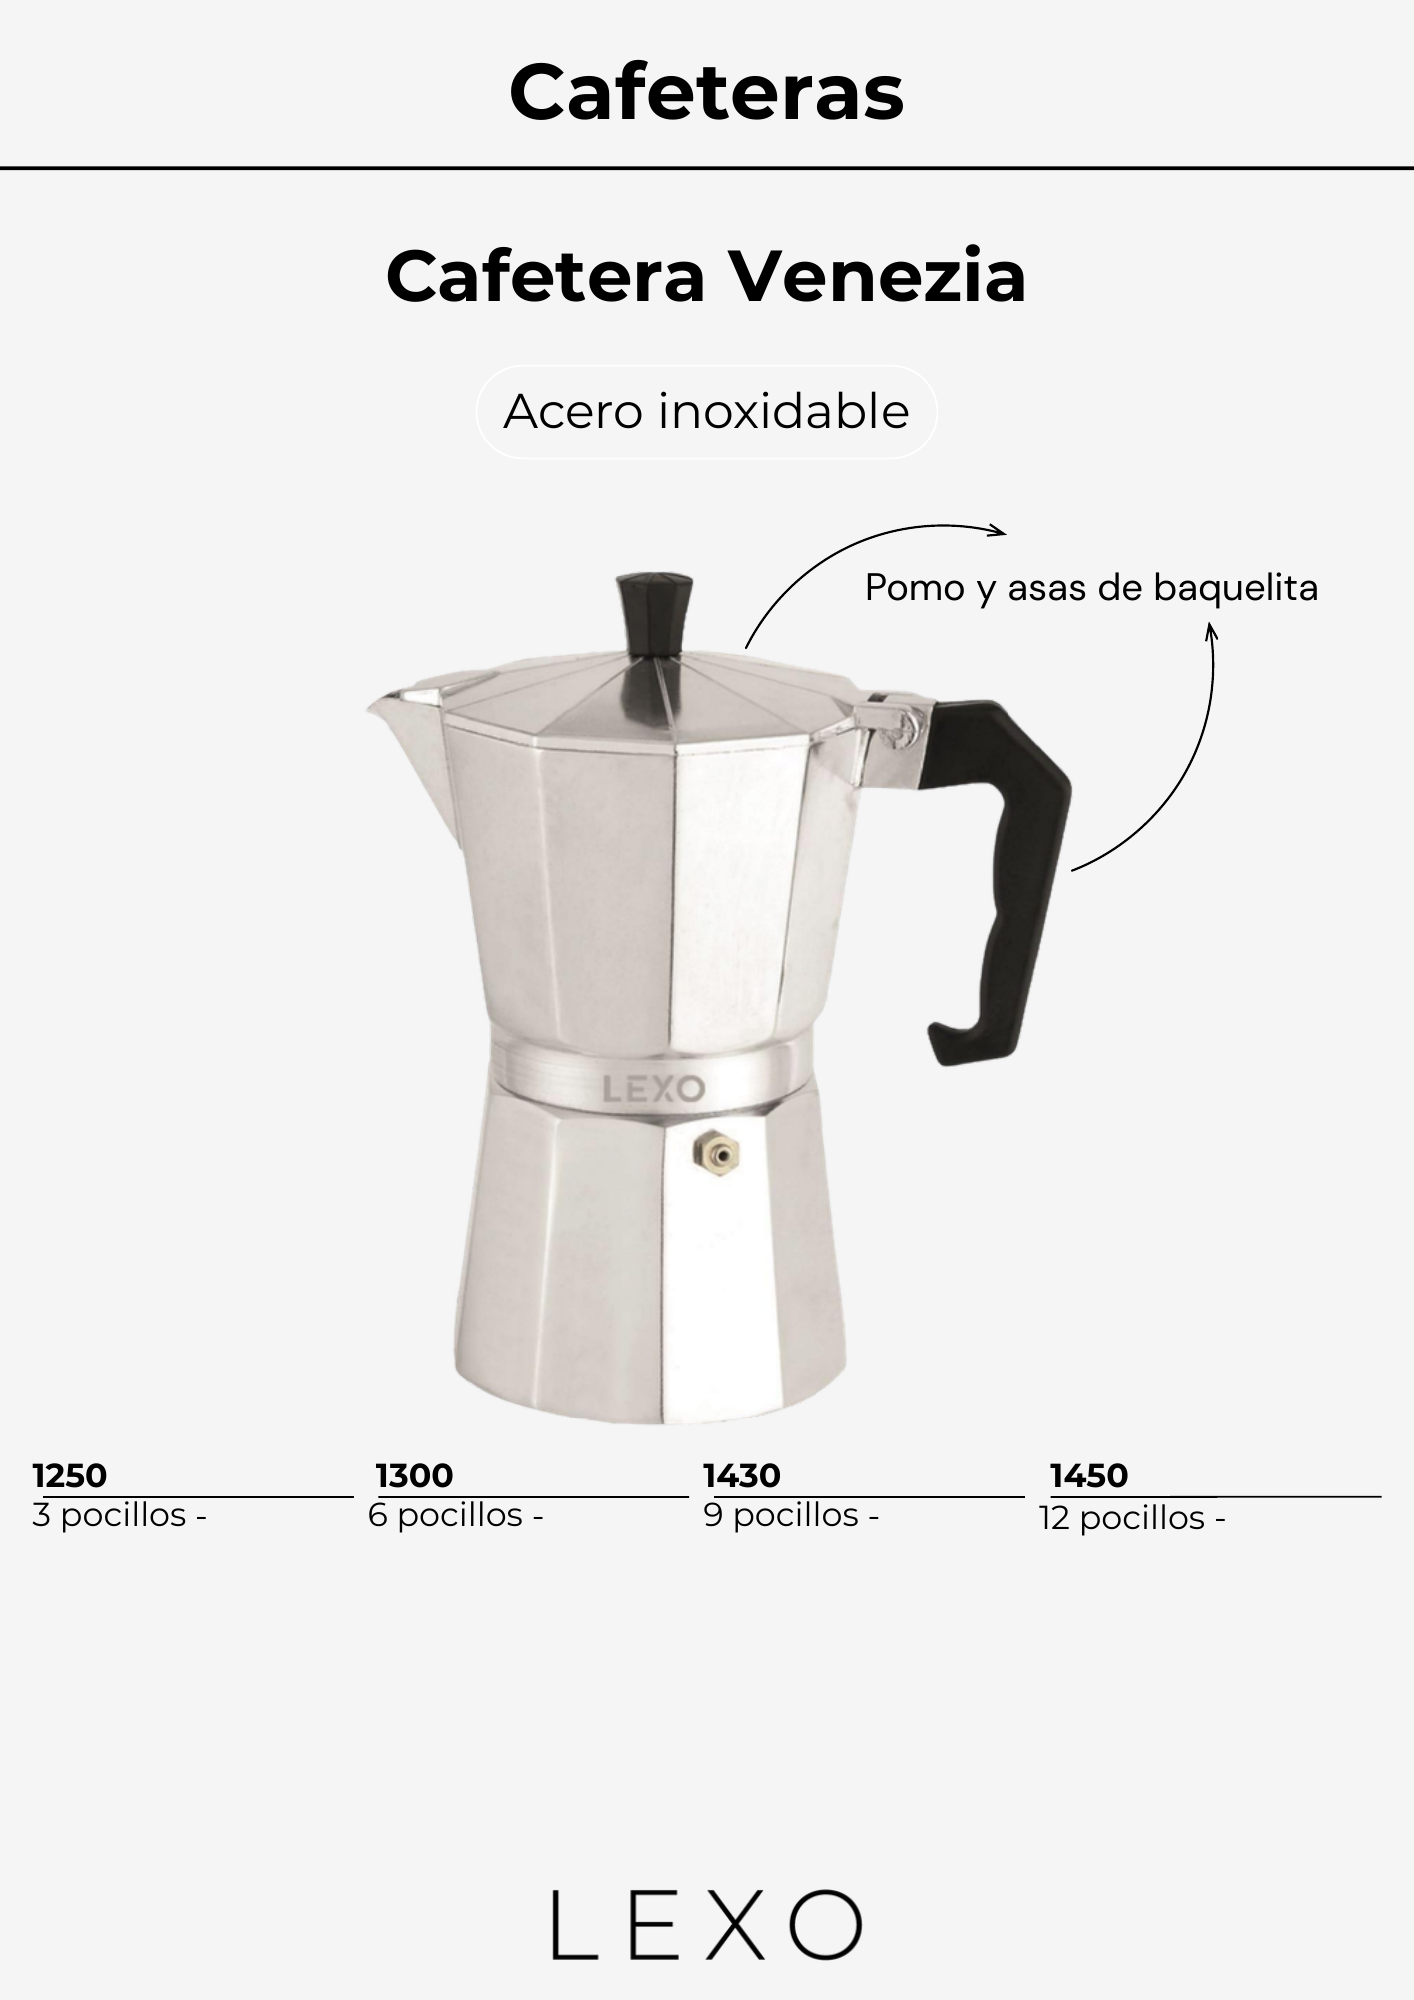
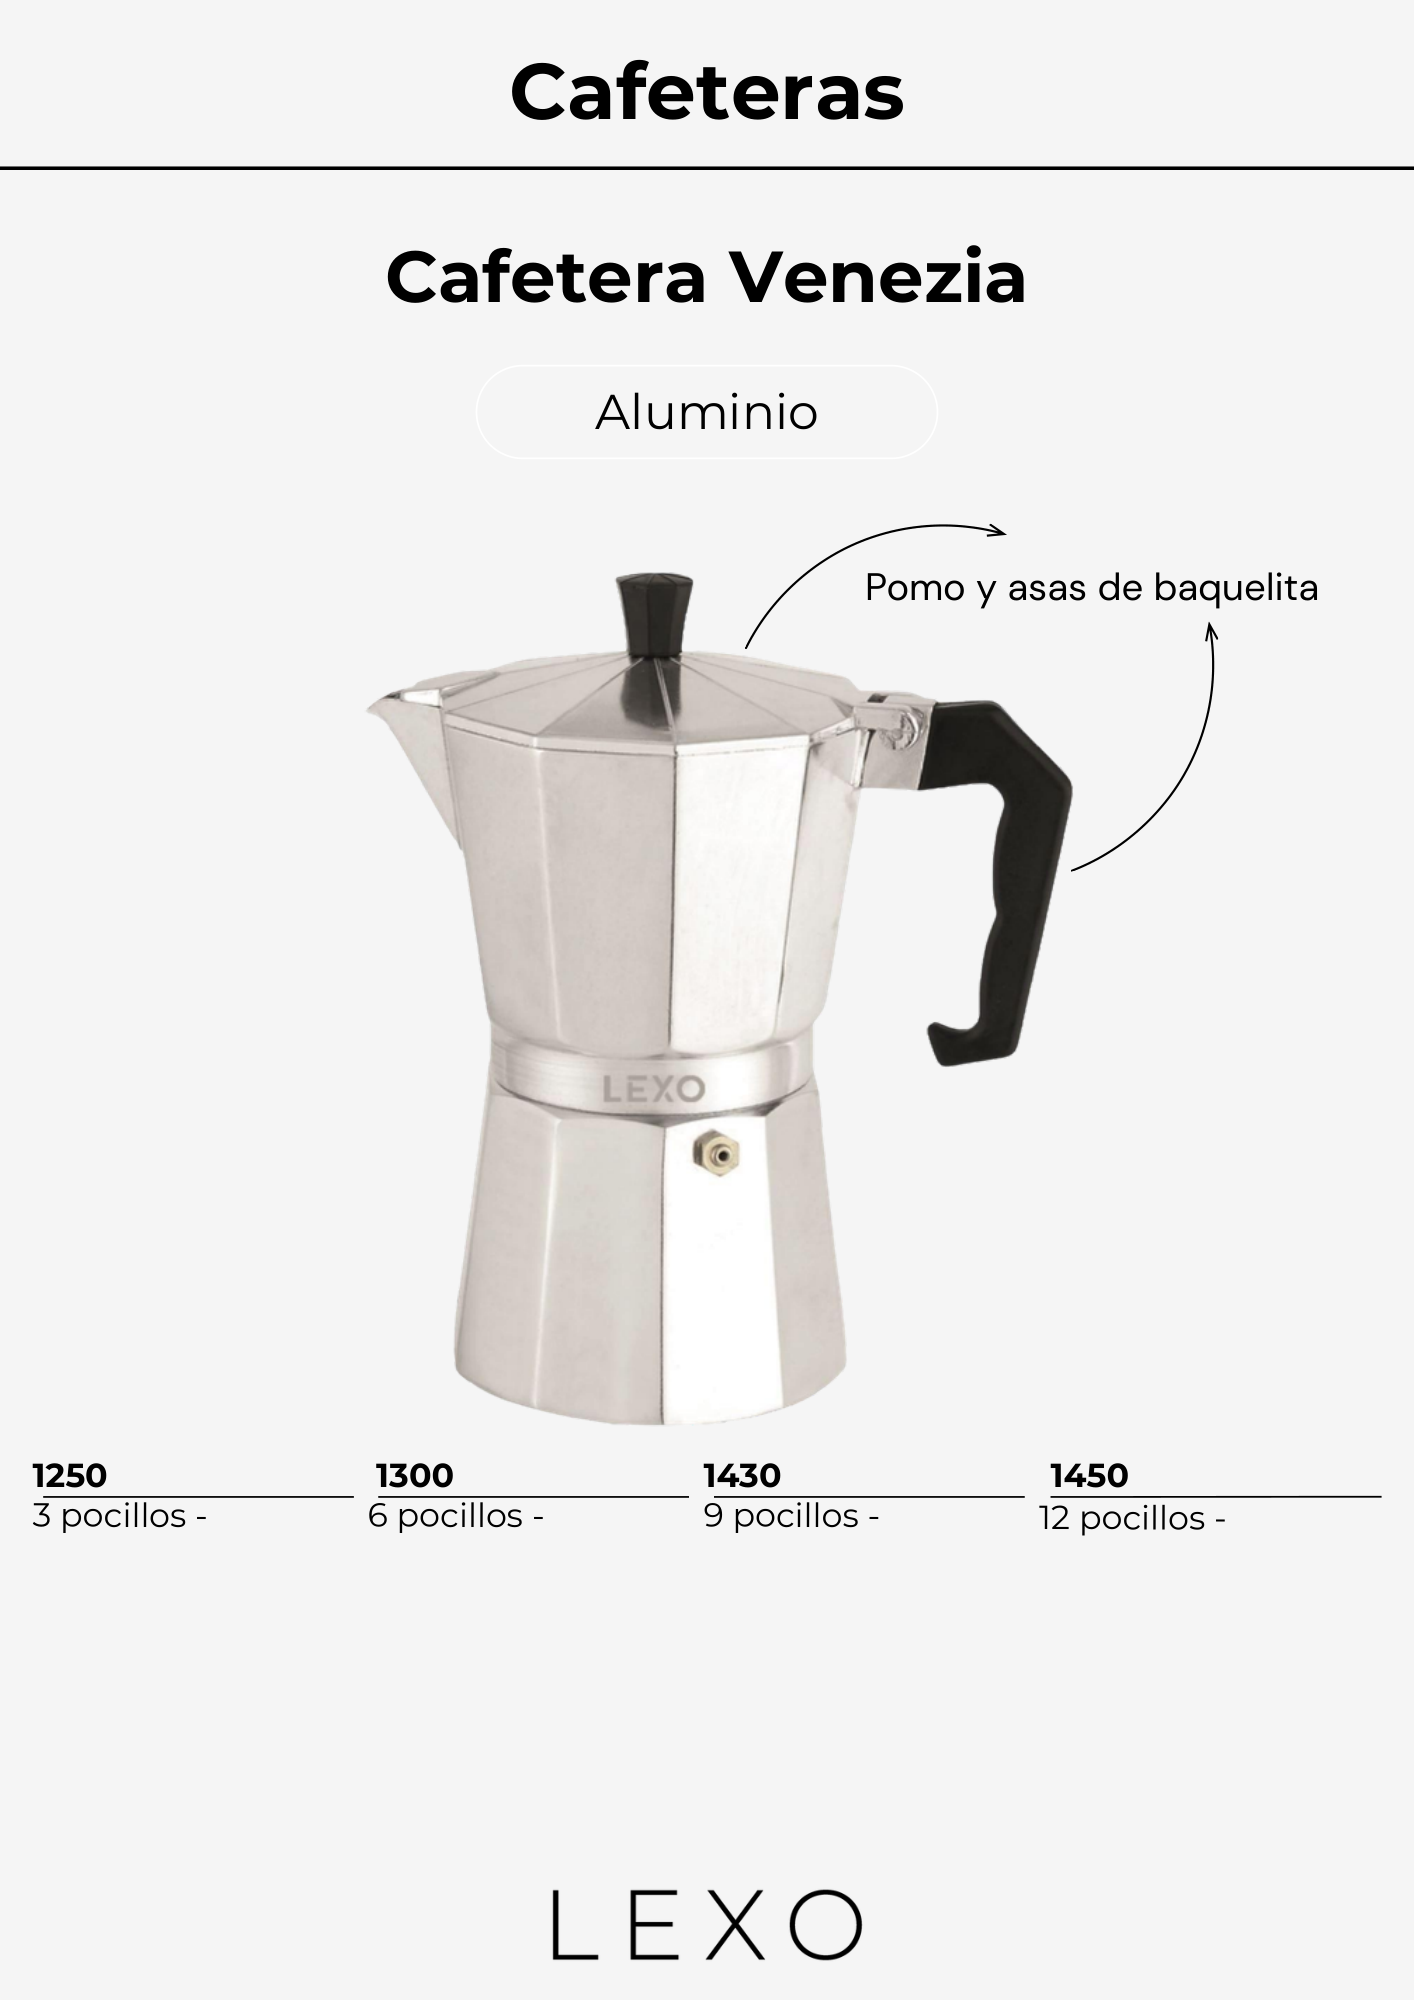
Replace Venezia catalog page with aluminum material artwork

diff --git a/web/data/catalog-data.js b/web/data/catalog-data.js
@@ -893,7 +893,7 @@ window.CATALOG_DATA = {
       "section": "Lexo",
       "showPriceOverlays": true,
       "image": {
-        "src": "assets/pages/lexo-20260706-page-016.png?v=20260901-cafeteras",
+        "src": "assets/pages/lexo-20260706-page-016.png?v=20261015-venezia-aluminio",
         "width": 1414,
         "height": 2000
       },
